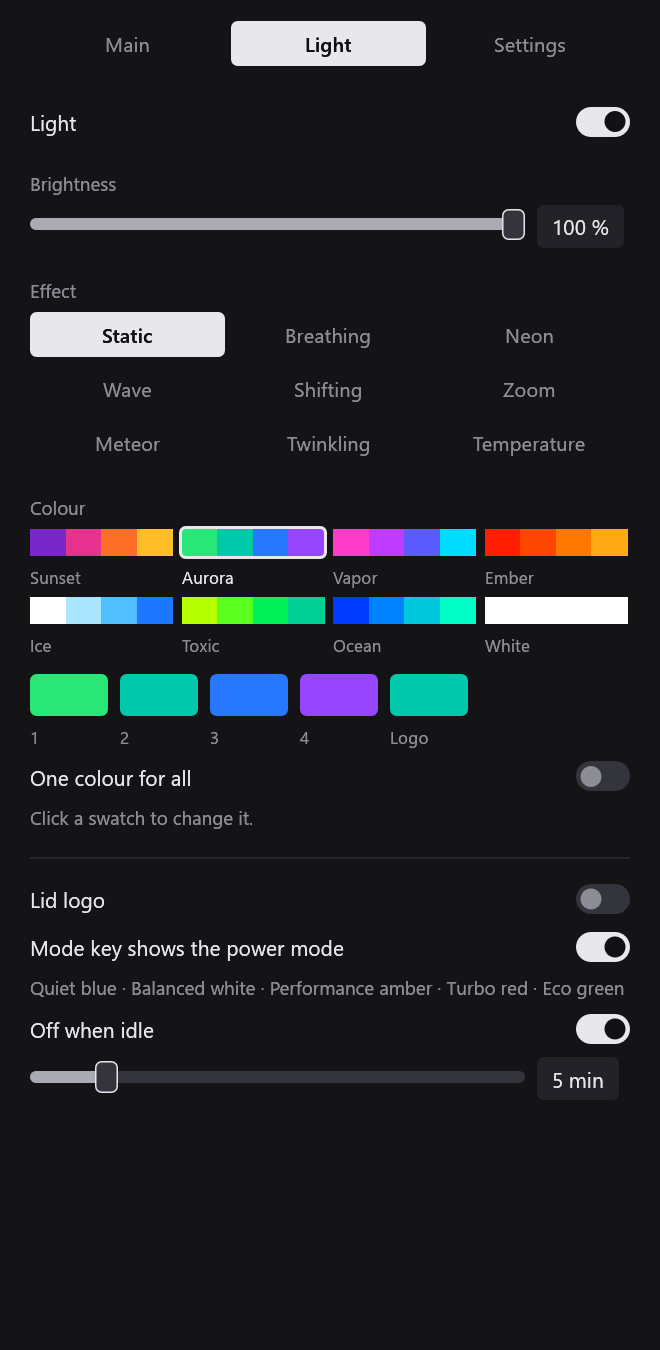
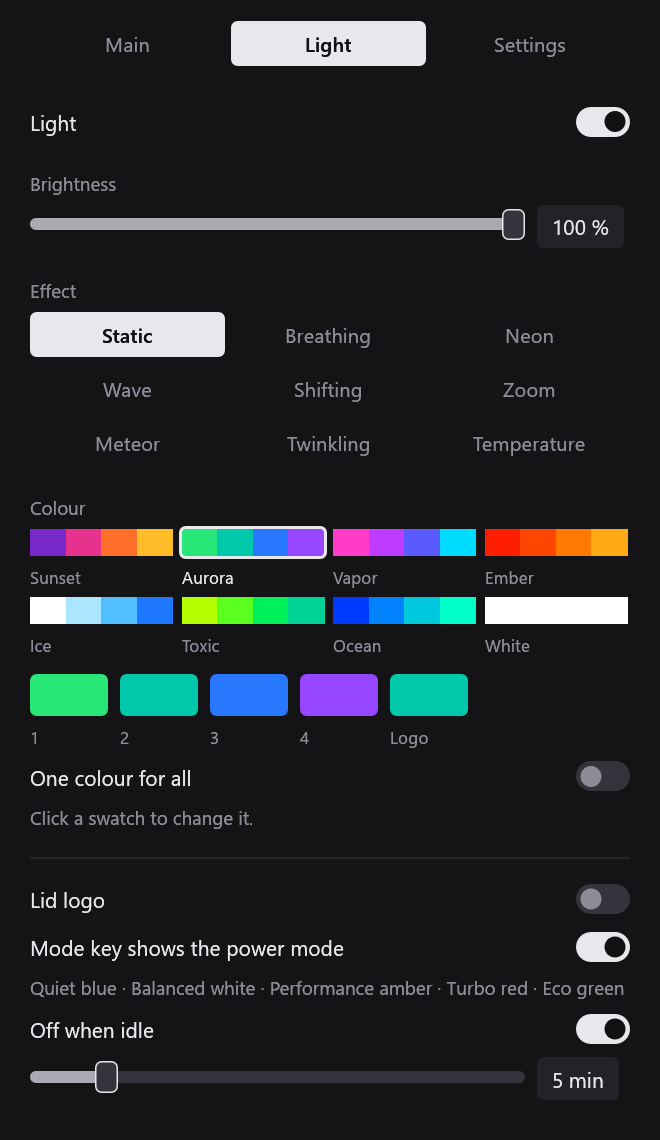
Screenshots at window height

diff --git a/examples/shots.rs b/examples/shots.rs
@@ -55,6 +55,10 @@ fn demo_state() {
     t.on_ac = true;
     t.power = acer::power::BALANCED;
     t.fan_text = "Auto +20%".into();
+    t.rtx_apps = vec![
+        (4120, "chrome.exe".into(), String::new(), 3.0),
+        (6388, "Discord.exe".into(), String::new(), 0.0),
+    ];
     let c = &mut sh.caps;
     c.acer = true;
     c.hid_lighting = true;
@@ -140,7 +144,7 @@ fn main() {
     let options = eframe::NativeOptions {
         viewport: egui::ViewportBuilder::default()
             .with_title("Kelvin shots")
-            .with_inner_size([440.0, 900.0])
+            .with_inner_size([440.0, 760.0])
             .with_position([-6000.0, 50.0])
             .with_taskbar(false),
         persist_window: false,
